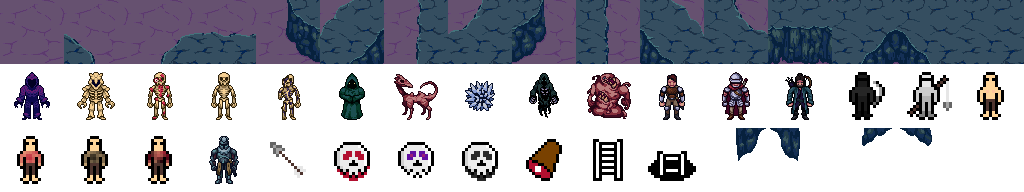
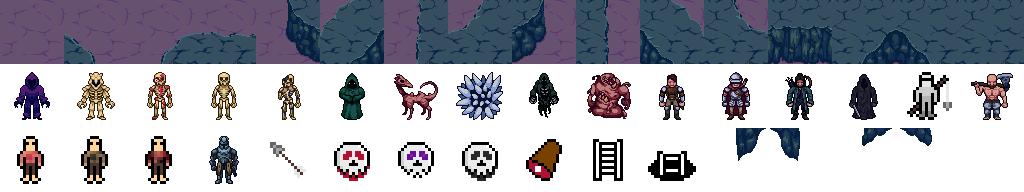
added berserker and skulker sprites; restrictions for divine intervention

Changed region(s): [[0.9375, 0.375, 1.0, 0.625], [0.4375, 0.375, 0.5, 0.625], [0.8125, 0.375, 0.875, 0.625]]

diff --git a/inc/necrowarp/entities/evil/player.hpp b/inc/necrowarp/entities/evil/player.hpp
@@ -384,6 +384,8 @@ namespace necrowarp {
 
 		template<map_type_e MapType> inline command_e clash_or_consume(offset_t position) const noexcept;
 
+		inline bool can_receive_divine_intervention() const noexcept;
+
 		template<map_type_e MapType> inline void die() noexcept;
 
 		template<RandomEngine Generator> static inline bool intervention(ref<Generator> engine) noexcept { return intervention_dis(engine); }

diff --git a/inc/necrowarp/commands/command.hpp b/inc/necrowarp/commands/command.hpp
@@ -57,7 +57,7 @@ namespace necrowarp {
 		clash_t, \
 		devour_t, \
 		loose_t, \
-		retreive_t, \
+		retrieve_t, \
 		batter_t, \
 		target_warp_t, \
 		consume_warp_t, \
